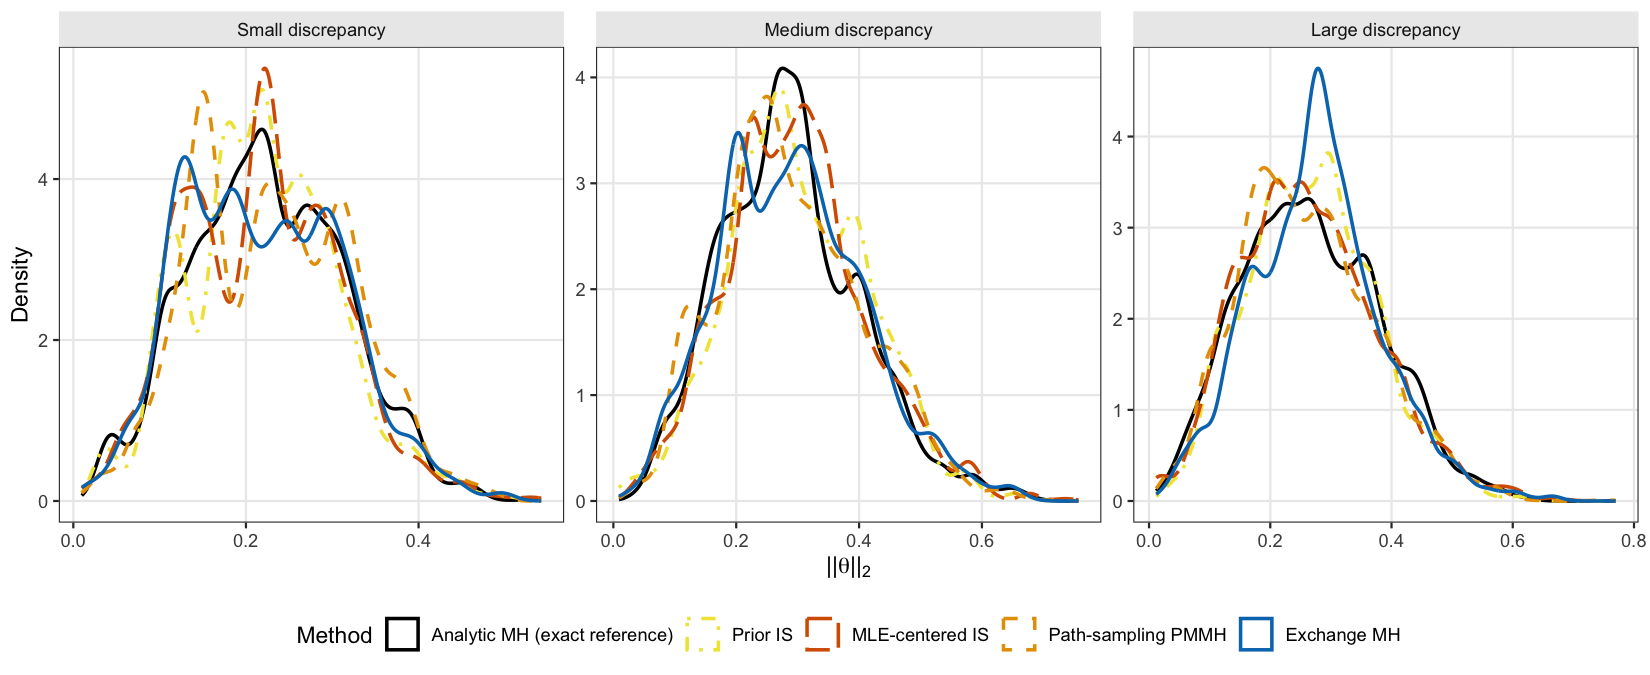
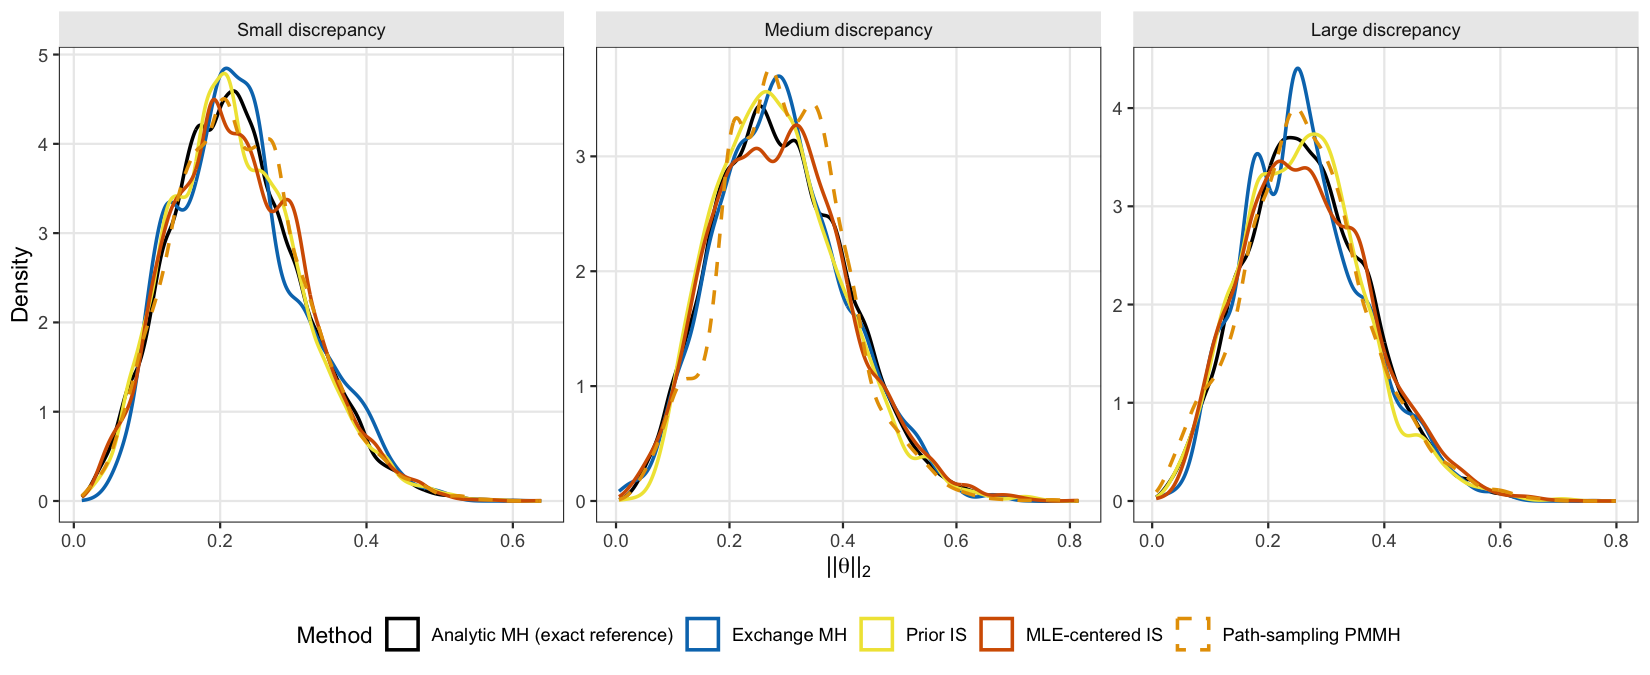
thesis: updating experiment 1

diff --git a/software/experiments/results/final_clean/table_diagnostics.tex b/software/experiments/results/final_clean/table_diagnostics.tex
@@ -1,28 +1,29 @@
 \begin{table}[ht]
   \centering
+  \resizebox{\textwidth}{!}{%
   \begin{tabular}{llccccccc}
   \hline
-  Scenario & Method & $W_\eta$ & $W_{\|\theta\|}$ & ESS$_\eta$ & ESS$_{\|\theta\|}$ & Acc.\ $\eta$ & Time (s) \\
+  Scenario & Method & Batches & Time (s) & $W_\eta$ & $W_{\|\theta\|}$ & ESS$_\eta$ & ESS$_{\|\theta\|}$ & Acc.\ $\eta$ \\
   \hline
-  Small & Analytic MH (exact reference) & 0.000 & 0.000 & 48 & 210 & 0.973 & 10.2 \\
-   & Prior IS & 0.094 & 0.007 & 54 & 181 & 0.968 & 211.5 \\
-   & MLE-centered IS & 0.036 & 0.008 & 44 & 225 & 0.975 & 615.9 \\
-   & Path-sampling PMMH & 0.052 & 0.010 & 50 & 144 & 0.981 & 941.3 \\
-   & Exchange MH & 0.056 & 0.008 & 61 & 235 & 0.955 & 9.4 \\
+  Small & Analytic MH (exact reference) & 5 & 100.6 & 0.000 & 0.000 & 552 & 2327 & 0.978 \\
+   & Exchange MH & 1 & 9.5 & 0.005 & 0.006 & 63 & 226 & 0.953 \\
+   & Prior IS & 10 & 2278.2 & 0.072 & 0.002 & 517 & 2111 & 0.965 \\
+   & MLE-centered IS & 7 & 4614.7 & 0.005 & 0.003 & 387 & 1421 & 0.978 \\
+   & Path-sampling PMMH & 6 & 5812.2 & 0.008 & 0.003 & 333 & 1234 & 0.978 \\
   \hline
-  Medium & Analytic MH (exact reference) & 0.000 & 0.000 & 75 & 221 & 0.904 & 9.7 \\
-   & Prior IS & 0.017 & 0.014 & 61 & 203 & 0.914 & 218.9 \\
-   & MLE-centered IS & 0.015 & 0.008 & 71 & 210 & 0.909 & 633.0 \\
-   & Path-sampling PMMH & 0.022 & 0.008 & 130 & 212 & 0.906 & 965.3 \\
-   & Exchange MH & 0.011 & 0.008 & 74 & 271 & 0.845 & 9.6 \\
+  Medium & Analytic MH (exact reference) & 5 & 97.7 & 0.000 & 0.000 & 1046 & 2677 & 0.907 \\
+   & Exchange MH & 1 & 9.7 & 0.008 & 0.004 & 123 & 266 & 0.847 \\
+   & Prior IS & 1 & 221.5 & 0.006 & 0.007 & 175 & 362 & 0.909 \\
+   & MLE-centered IS & 4 & 2553.1 & 0.009 & 0.003 & 229 & 945 & 0.907 \\
+   & Path-sampling PMMH & 1 & 968.2 & 0.008 & 0.011 & 161 & 272 & 0.911 \\
   \hline
-  Large & Analytic MH (exact reference) & 0.000 & 0.000 & 1644 & 259 & 0.751 & 9.4 \\
-   & Prior IS & 0.003 & 0.009 & 1451 & 342 & 0.754 & 177.7 \\
-   & MLE-centered IS & 0.001 & 0.007 & 1332 & 311 & 0.750 & 510.6 \\
-   & Path-sampling PMMH & 0.001 & 0.008 & 1329 & 331 & 0.753 & 772.2 \\
-   & Exchange MH & 0.001 & 0.014 & 1275 & 379 & 0.449 & 9.1 \\
+  Large & Analytic MH (exact reference) & 5 & 94.5 & 0.000 & 0.000 & 18361 & 3474 & 0.749 \\
+   & Exchange MH & 1 & 9.2 & 0.001 & 0.007 & 1474 & 401 & 0.448 \\
+   & Prior IS & 1 & 178.9 & 0.001 & 0.006 & 872 & 390 & 0.748 \\
+   & MLE-centered IS & 1 & 513.6 & 0.000 & 0.004 & 1923 & 350 & 0.748 \\
+   & Path-sampling PMMH & 1 & 775.7 & 0.000 & 0.004 & 1954 & 398 & 0.753 \\
   \hline
-  \end{tabular}
-  \caption{Diagnostic comparison for Experiment 1 (Normal-Normal NPP, 5000 iterations, warmup 1000). Wasserstein distances are computed against the analytic MH reference within each discrepancy scenario.}
+  \end{tabular}}
+  \caption{Experiment 1 convergence diagnostics. Batches: number of batches of 4 chains $\times$ 5000 iterations required to reach $W_1(\eta) <0.01$. Wasserstein distances computed against the analytic MH reference.}
   \label{tab:exp1-diagnostics}
 \end{table}

diff --git a/software/experiments/results/final_clean/table_posterior_summaries.tex b/software/experiments/results/final_clean/table_posterior_summaries.tex
@@ -4,25 +4,25 @@
   \hline
   Scenario & Method & $\bar{\eta}$ & $\mathrm{sd}(\eta)$ & $\overline{\|\theta\|}$ & $\mathrm{sd}(\|\theta\|)$ \\
   \hline
-  Small & Analytic MH (exact reference) & 0.611 & 0.254 & 0.225 & 0.088 \\
-   & Prior IS & 0.704 & 0.223 & 0.219 & 0.085 \\
-   & MLE-centered IS & 0.647 & 0.259 & 0.218 & 0.088 \\
-   & Path-sampling PMMH & 0.663 & 0.226 & 0.231 & 0.091 \\
-   & Exchange MH & 0.556 & 0.248 & 0.219 & 0.091 \\
+  Small & Analytic MH (exact reference) & 0.623 & 0.241 & 0.223 & 0.089 \\
+   & Exchange MH & 0.621 & 0.246 & 0.228 & 0.087 \\
+   & Prior IS & 0.695 & 0.238 & 0.222 & 0.089 \\
+   & MLE-centered IS & 0.626 & 0.244 & 0.225 & 0.090 \\
+   & Path-sampling PMMH & 0.615 & 0.243 & 0.226 & 0.088 \\
   \hline
-  Medium & Analytic MH (exact reference) & 0.189 & 0.163 & 0.289 & 0.112 \\
-   & Prior IS & 0.200 & 0.169 & 0.302 & 0.113 \\
-   & MLE-centered IS & 0.176 & 0.145 & 0.297 & 0.113 \\
-   & Path-sampling PMMH & 0.176 & 0.125 & 0.290 & 0.116 \\
-   & Exchange MH & 0.184 & 0.154 & 0.291 & 0.118 \\
+  Medium & Analytic MH (exact reference) & 0.174 & 0.138 & 0.291 & 0.115 \\
+   & Exchange MH & 0.182 & 0.147 & 0.291 & 0.113 \\
+   & Prior IS & 0.173 & 0.128 & 0.287 & 0.110 \\
+   & MLE-centered IS & 0.183 & 0.160 & 0.291 & 0.118 \\
+   & Path-sampling PMMH & 0.169 & 0.124 & 0.296 & 0.105 \\
   \hline
-  Large & Analytic MH (exact reference) & 0.031 & 0.023 & 0.268 & 0.113 \\
-   & Prior IS & 0.033 & 0.026 & 0.269 & 0.104 \\
-   & MLE-centered IS & 0.032 & 0.024 & 0.263 & 0.113 \\
-   & Path-sampling PMMH & 0.032 & 0.025 & 0.260 & 0.110 \\
-   & Exchange MH & 0.032 & 0.024 & 0.276 & 0.105 \\
+  Large & Analytic MH (exact reference) & 0.031 & 0.024 & 0.268 & 0.107 \\
+   & Exchange MH & 0.032 & 0.025 & 0.264 & 0.103 \\
+   & Prior IS & 0.032 & 0.026 & 0.262 & 0.105 \\
+   & MLE-centered IS & 0.032 & 0.024 & 0.270 & 0.109 \\
+   & Path-sampling PMMH & 0.031 & 0.024 & 0.265 & 0.108 \\
   \hline
   \end{tabular}
-  \caption{Posterior summaries for Experiment 1 (Normal-Normal NPP).}
+  \caption{Experiment 1 posterior summaries (Normal-Normal NPP).}
   \label{tab:exp1-posterior-summaries}
 \end{table}

diff --git a/thesis/chapters/03_approximate.tex b/thesis/chapters/03_approximate.tex
@@ -176,7 +176,7 @@ In particular,
 
 This allows derivative information and shape restrictions to be incorporated directly into the posterior distribution of the Gaussian process.
 Conditioning on derivative observations or derivative sign constraints can substantially reduce unrealistic oscillatory behaviour.
-We refer to \citeonline{adame2025} for recent developments in shape-constrained emulation through Gaussian processes.
+We refer to \citeonline{riihmaki2010, adame2025} and \citeonline{wang2016} for recent developments in shape-constrained emulation through Gaussian processes.
 \comEA{Insert more references}
 
 An alternative strategy is based on shape-constrained additive models (SCAMs).

diff --git a/thesis/chapters/06_discussion.tex b/thesis/chapters/06_discussion.tex
@@ -1,3 +1,3 @@
 \chapter{Discussion}
 
-\subparagraph*{Code Availability} The code is available at: 
+\subparagraph*{Code Availability} The code is available at: \url{https://github.com/adamesalles/npp-msc-thesis}. 